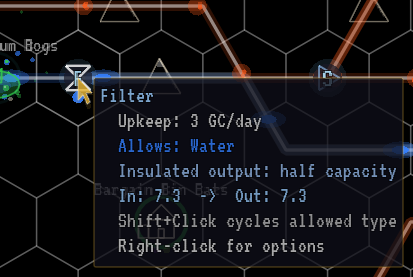
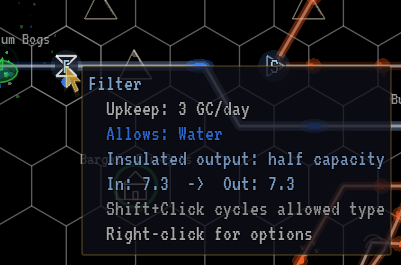
Recaptured M7 and M9 screenshot masters
M7 drops the fire line that ran along the raw Earth + Water line, hides
the minimap and keeps the crop clear of the HUD; its tooltips now show
only Fertile Growth. M9 adds a matching before frame and captures the
eruption at its brightest, with no clipped labels.

diff --git a/fm-shots/index.html b/fm-shots/index.html
@@ -326,24 +326,24 @@ Field Ops
 Grimoire</pre></details>
 </div>
 <div class="card">
-<h2><span class="id">M7</span> fm-mixed-raw-vs-filtered <span class="size">1219x600</span></h2>
-<div class="shot"><img src="fm-mixed-raw-vs-filtered.png" width="1219" height="600" alt="A two-type spring feeding a farm with a two-colored raw line inside a Fertile Growth zone, and a filter next to it sending an insulated water line with a grey sheath." loading="lazy">
-<div class="co" style="left:45.939%;top:15.167%;width:4.758%;height:9.667%"><span>mixed source</span></div>
-<div class="co" style="left:8.450%;top:15.167%;width:42.248%;height:69.667%"><span>raw two-tone line</span></div>
-<div class="co" style="left:34.537%;top:24.833%;width:13.946%;height:14.333%"><span>Fertile Growth zone</span></div>
-<div class="co" style="left:53.158%;top:16.000%;width:3.938%;height:8.000%"><span>filter</span></div>
-<div class="co" style="left:52.748%;top:15.167%;width:42.248%;height:21.667%"><span>insulated line</span></div>
+<h2><span class="id">M7</span> fm-mixed-raw-vs-filtered <span class="size">973x398</span></h2>
+<div class="shot"><img src="fm-mixed-raw-vs-filtered.png" width="973" height="398" alt="A two-type spring feeding a farm with a two-colored raw line inside a Fertile Growth zone, and a filter next to it sending an insulated water line with a grey sheath." loading="lazy">
+<div class="co" style="left:43.782%;top:7.538%;width:4.933%;height:12.060%"><span>mixed source</span></div>
+<div class="co" style="left:4.625%;top:7.538%;width:44.090%;height:87.437%"><span>raw two-tone line</span></div>
+<div class="co" style="left:31.860%;top:19.598%;width:14.491%;height:18.090%"><span>Fertile Growth zone</span></div>
+<div class="co" style="left:51.285%;top:8.543%;width:4.111%;height:10.050%"><span>filter</span></div>
+<div class="co" style="left:50.874%;top:7.538%;width:44.090%;height:27.136%"><span>insulated line</span></div>
 </div>
 <div class="meta ok">Expected text: all present</div>
 <div class="meta"><b>Caption:</b> Left: a raw mixed line carries both types and reacts with itself. Right: a Filter sends one type on an insulated line.</div>
 <div class="meta"><b>Alt:</b> A two-type spring feeding a farm with a two-colored raw line inside a Fertile Growth zone, and a filter next to it sending an insulated water line with a grey sheath.</div>
-<div class="meta">op scenario_4 &middot; seed 4 &middot; zoom 1.2</div>
+<div class="meta">op scenario_4 &middot; seed 4 &middot; zoom 1</div>
 </div>
 <div class="card">
-<h2><span class="id">M7</span> fm-mixed-tip-raw <span class="size">449x352</span></h2>
-<div class="shot"><img src="fm-mixed-tip-raw.png" width="449" height="352" alt="Tooltip on a raw earth and water conduit: 7.5 of each type, raw mixed energy reacts with itself." loading="lazy">
-<div class="co" style="left:22.272%;top:38.068%;width:40.089%;height:13.352%"><span>per-type share</span></div>
-<div class="co" style="left:22.272%;top:59.375%;width:74.165%;height:6.250%"><span>reacts with itself</span></div>
+<h2><span class="id">M7</span> fm-mixed-tip-raw <span class="size">437x290</span></h2>
+<div class="shot"><img src="fm-mixed-tip-raw.png" width="437" height="290" alt="Tooltip on a raw earth and water conduit: 7.5 of each type, raw mixed energy reacts with itself." loading="lazy">
+<div class="co" style="left:20.137%;top:42.069%;width:41.190%;height:16.207%"><span>per-type share</span></div>
+<div class="co" style="left:20.137%;top:67.931%;width:76.201%;height:7.586%"><span>reacts with itself</span></div>
 </div>
 <div class="meta ok">Expected text: all present</div>
 <div class="meta"><b>Caption:</b> A raw mixed conduit carries both types, half its capacity each, and reacts with itself.</div>
@@ -377,15 +377,13 @@ Conduit (Earth + Water)
   Dissipation: -1.6
   Raw mixed energy reacts with itself
   Right-click for options
-[Magma Vents]
 [Fertile Growth]
-[Steam Clouds]
 &gt; 1x
 Info
 AG&amp;W SCRYING TERMINAL v4.2.0
 Day 2 [1x]
-+55.4/day
-1106 GC
++50.0/day
+1092 GC
  / -500
 Nobody and the NeckRomancers - If It Don't Bite
 Nobody and the NeckRomancers - If It Don't Bite
@@ -394,10 +392,10 @@ Field Ops
 Grimoire</pre></details>
 </div>
 <div class="card">
-<h2><span class="id">M7</span> fm-mixed-tip-filter <span class="size">413x277</span></h2>
-<div class="shot"><img src="fm-mixed-tip-filter.png" width="413" height="277" alt="Filter tooltip: allows water, insulated output at half capacity." loading="lazy">
-<div class="co" style="left:24.213%;top:48.375%;width:32.688%;height:7.942%"><span>allowed type</span></div>
-<div class="co" style="left:24.213%;top:57.401%;width:71.913%;height:7.942%"><span>half capacity</span></div>
+<h2><span class="id">M7</span> fm-mixed-tip-filter <span class="size">401x265</span></h2>
+<div class="shot"><img src="fm-mixed-tip-filter.png" width="401" height="265" alt="Filter tooltip: allows water, insulated output at half capacity." loading="lazy">
+<div class="co" style="left:21.945%;top:46.038%;width:33.666%;height:8.302%"><span>allowed type</span></div>
+<div class="co" style="left:21.945%;top:55.472%;width:74.065%;height:8.302%"><span>half capacity</span></div>
 </div>
 <div class="meta ok">Expected text: all present</div>
 <div class="meta"><b>Caption:</b> A Filter lets one type through on an insulated line at half capacity.</div>
@@ -435,8 +433,8 @@ Filter
 Info
 AG&amp;W SCRYING TERMINAL v4.2.0
 Day 2 [1x]
-+55.4/day
-1109 GC
++50.0/day
+1095 GC
  / -500
 Nobody and the NeckRomancers - If It Don't Bite
 Nobody and the NeckRomancers - If It Don't Bite
@@ -445,10 +443,10 @@ Field Ops
 Grimoire</pre></details>
 </div>
 <div class="card">
-<h2><span class="id">M7</span> fm-mixed-tip-source <span class="size">710x302</span></h2>
-<div class="shot"><img src="fm-mixed-tip-source.png" width="710" height="302" alt="Mud spring tooltip: produces 15 earth and 15 water, with a hint to place a filter next to it." loading="lazy">
-<div class="co" style="left:14.085%;top:36.093%;width:27.887%;height:15.563%"><span>two types</span></div>
-<div class="co" style="left:14.085%;top:52.649%;width:83.662%;height:7.285%"><span>filter hint</span></div>
+<h2><span class="id">M7</span> fm-mixed-tip-source <span class="size">698x240</span></h2>
+<div class="shot"><img src="fm-mixed-tip-source.png" width="698" height="240" alt="Mud spring tooltip: produces 15 earth and 15 water, with a hint to place a filter next to it." loading="lazy">
+<div class="co" style="left:12.607%;top:40.417%;width:28.367%;height:19.583%"><span>two types</span></div>
+<div class="co" style="left:12.607%;top:61.250%;width:85.100%;height:9.167%"><span>filter hint</span></div>
 </div>
 <div class="meta ok">Expected text: all present</div>
 <div class="meta"><b>Caption:</b> A mixed source produces two types at once.</div>
@@ -480,15 +478,13 @@ Puddleglum Bogs
   Produces: Water (15)
   Mixed source: place a filter next to it to separate energy types
   Departing: 22.5 over 2 conduits (11.3 each)
-[Magma Vents]
 [Fertile Growth]
-[Steam Clouds]
 &gt; 1x
 Info
 AG&amp;W SCRYING TERMINAL v4.2.0
 Day 2 [1x]
-+55.4/day
-1112 GC
++50.0/day
+1097 GC
  / -500
 Nobody and the NeckRomancers - If It Don't Bite
 Nobody and the NeckRomancers - If It Don't Bite
@@ -545,11 +541,22 @@ Field Ops
 Grimoire</pre></details>
 </div>
 <div class="card">
-<h2><span class="id">M9</span> fm-eruption <span class="size">518x572</span></h2>
-<div class="shot"><img src="fm-eruption.png" width="518" height="572" alt="Fire and gas conduits flashing red where they meet at a goblin bazaar, with a hazard notice." loading="lazy">
-<div class="co" style="left:21.622%;top:60.140%;width:22.201%;height:20.105%"><span>hazard zone</span></div>
-<div class="co" style="left:0.000%;top:0.000%;width:38.417%;height:75.350%"><span>flashing conduits</span></div>
-<div class="co" style="left:54.826%;top:2.797%;width:42.085%;height:15.734%"><span>HAZARD notice</span></div>
+<h2><span class="id">M9</span> fm-eruption-before <span class="size">538x426</span></h2>
+<div class="shot"><img src="fm-eruption-before.png" width="538" height="426" alt="Fire and gas conduits meeting at a goblin bazaar, in their normal colors." loading="lazy">
+<div class="co" style="left:44.610%;top:71.831%;width:21.375%;height:26.995%"><span>hazard zone</span></div>
+<div class="co" style="left:2.788%;top:26.761%;width:58.922%;height:66.432%"><span>flashing conduits</span></div>
+</div>
+<div class="meta ok">Expected text: all present</div>
+<div class="meta"><b>Caption:</b> The bazaar's fire and gas lines on an ordinary day.</div>
+<div class="meta"><b>Alt:</b> Fire and gas conduits meeting at a goblin bazaar, in their normal colors.</div>
+<div class="meta">op scenario_2 &middot; seed 2 &middot; zoom 1.2</div>
+</div>
+<div class="card">
+<h2><span class="id">M9</span> fm-eruption <span class="size">538x426</span></h2>
+<div class="shot"><img src="fm-eruption.png" width="538" height="426" alt="Fire and gas conduits flashing red where they meet at a goblin bazaar, with a hazard notice." loading="lazy">
+<div class="co" style="left:44.610%;top:71.831%;width:21.375%;height:26.995%"><span>hazard zone</span></div>
+<div class="co" style="left:2.788%;top:26.761%;width:58.922%;height:66.432%"><span>flashing conduits</span></div>
+<div class="co" style="left:50.558%;top:1.878%;width:40.520%;height:21.127%"><span>HAZARD notice</span></div>
 </div>
 <div class="meta ok">Expected text: all present</div>
 <div class="meta"><b>Caption:</b> An eruption. Every conduit in the zone loses part of its flow until the next day's check.</div>
@@ -575,21 +582,15 @@ Witcher Farms
 Crossroads Post
 Orkoz Market
 GOAL: supply every customer in full, keep them content for 5 days
-Witcher Farms
-Status: content
-  Earth: 6.2 / 3 OK
-  Water: 6.8 / 5 OK
-  Revenue: 16.0 GC/day (x1.00)
-  Interaction: +25% revenue
 &gt; 1x
 [HAZARD] Eruption! 2
 conduits lost up to 30%
 of their energy today.
 Info
-AG&amp;W SCRYING TERMINAL v4.2.0
+AG&amp;W SCRYING TERMINAL v6.6.6
 Day 3 [1x]
 +120.6/day
-836 GC
+833 GC
  / -200
 Nobody and the NeckRomancers - If It Don't Bite
 Nobody and the NeckRomancers - If It Don't Bite
@@ -636,10 +637,10 @@ Conduit (Fire)
 [Explosion Risk]
 &gt; 1x
 Info
-AG&amp;W SCRYING TERMINAL v4.2.0
+AG&amp;W SCRYING TERMINAL v6.6.6
 Day 3 [1x]
 +120.6/day
-843 GC
+840 GC
  / -200
 Nobody and the NeckRomancers - If It Don't Bite
 Nobody and the NeckRomancers - If It Don't Bite

diff --git a/fm-shots/README.md b/fm-shots/README.md
@@ -1,6 +1,6 @@
 # Field Manual screenshots (masters)
 
-Lossless captures for the Field Manual, taken from game 1.1.0 on 2026-10-23. This folder sits outside `src/`, so nothing here is deployed. Convert to WebP into `src/assets/images/` when placing an image on a page.
+Lossless captures for the Field Manual, taken from game 1.1.0 on 2026-10-23 (M7 and M9 recaptured the same day per the doc's recapture notes). This folder sits outside `src/`, so nothing here is deployed. Convert to WebP into `src/assets/images/` when placing an image on a page.
 
 - `<name>.png`: the cropped capture. No labels or callouts are drawn in.
 - `<name>.json`: the sidecar. `meta.caption` and `meta.alt` are draft caption and alt text. `callouts` are label rectangles in the PNG's own pixels, for the web side to draw.
@@ -18,6 +18,6 @@ Shot list and placement, from the "AG&W Field Manual Screenshot Requests" doc:
 | M6 | `fm-radial-build-root`, `fm-radial-build-submenu` | Components › Placing and removing; Controls › Radial menu |
 | M7 | `fm-mixed-raw-vs-filtered`, `fm-mixed-tip-source`, `-raw`, `-filter` | Sources & Customers › Mixed sources; Components › Filter, Raw mixed and merged, Insulated |
 | M8 | `fm-inspector` | Interactions › How interactions work |
-| M9 | `fm-eruption`, `fm-eruption-tip` | Interactions › Eruptions, Explosion Risk |
+| M9 | `fm-eruption-before`, `fm-eruption`, `fm-eruption-tip` | Interactions › Eruptions, Explosion Risk (before and after side by side) |
 
 To regenerate, from the `agw-game` repo: `love . --test fm_shots` (or `--op M7` for one shot). See its `test/README.md`.
